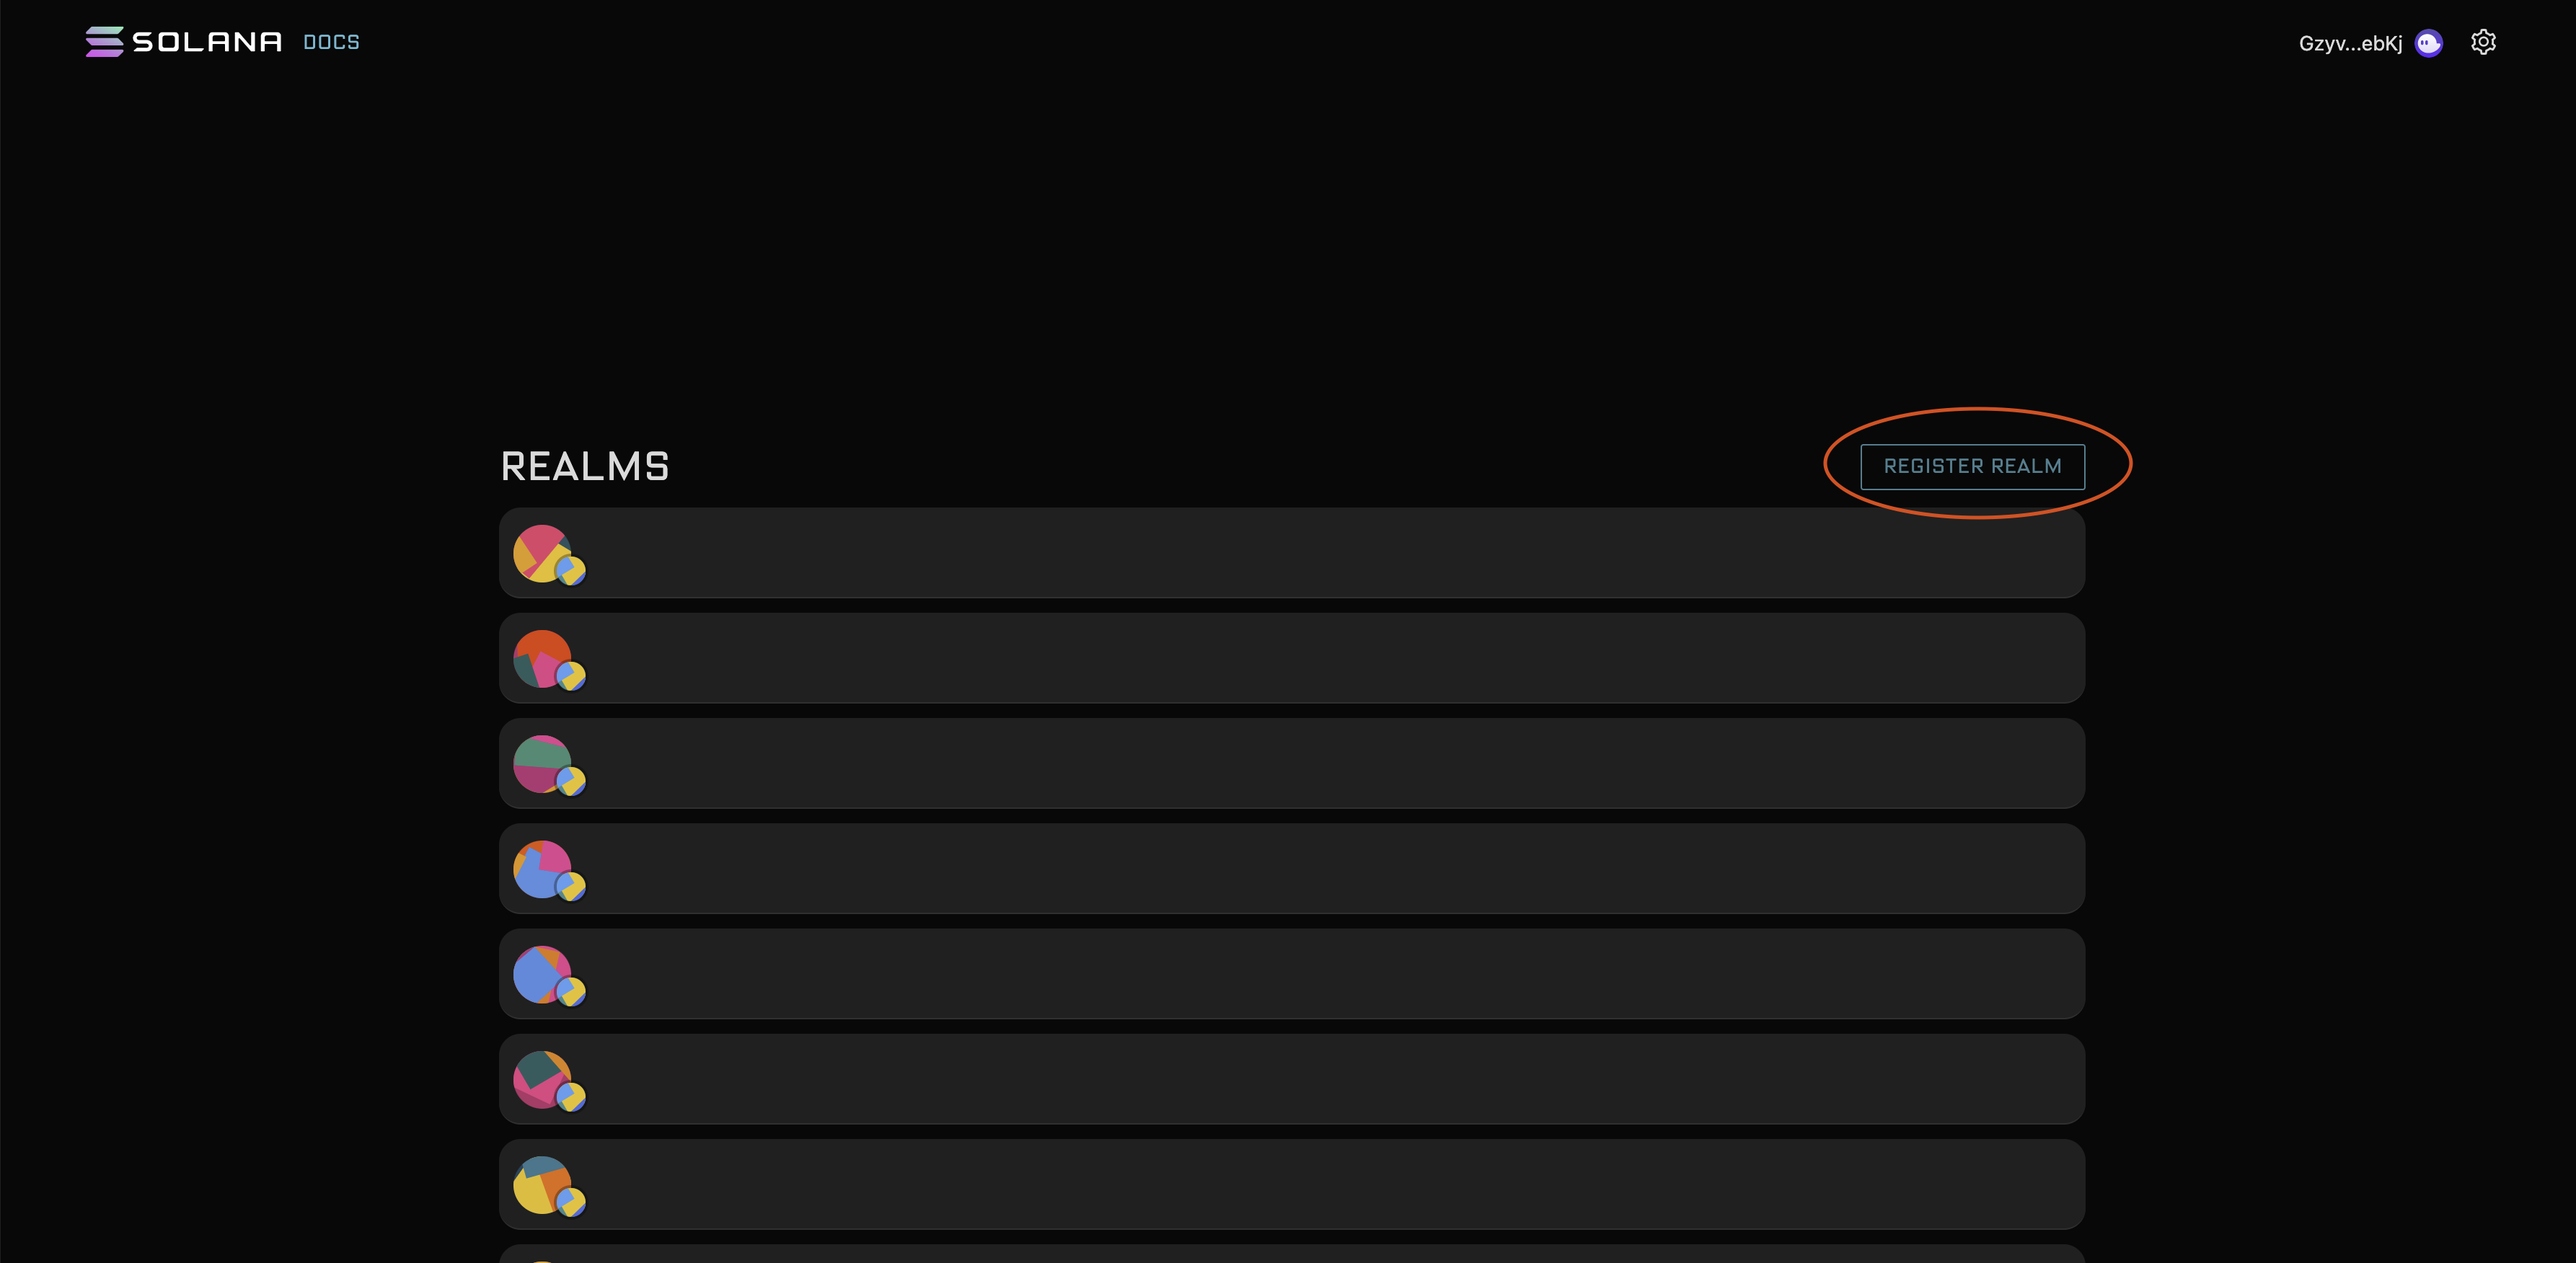
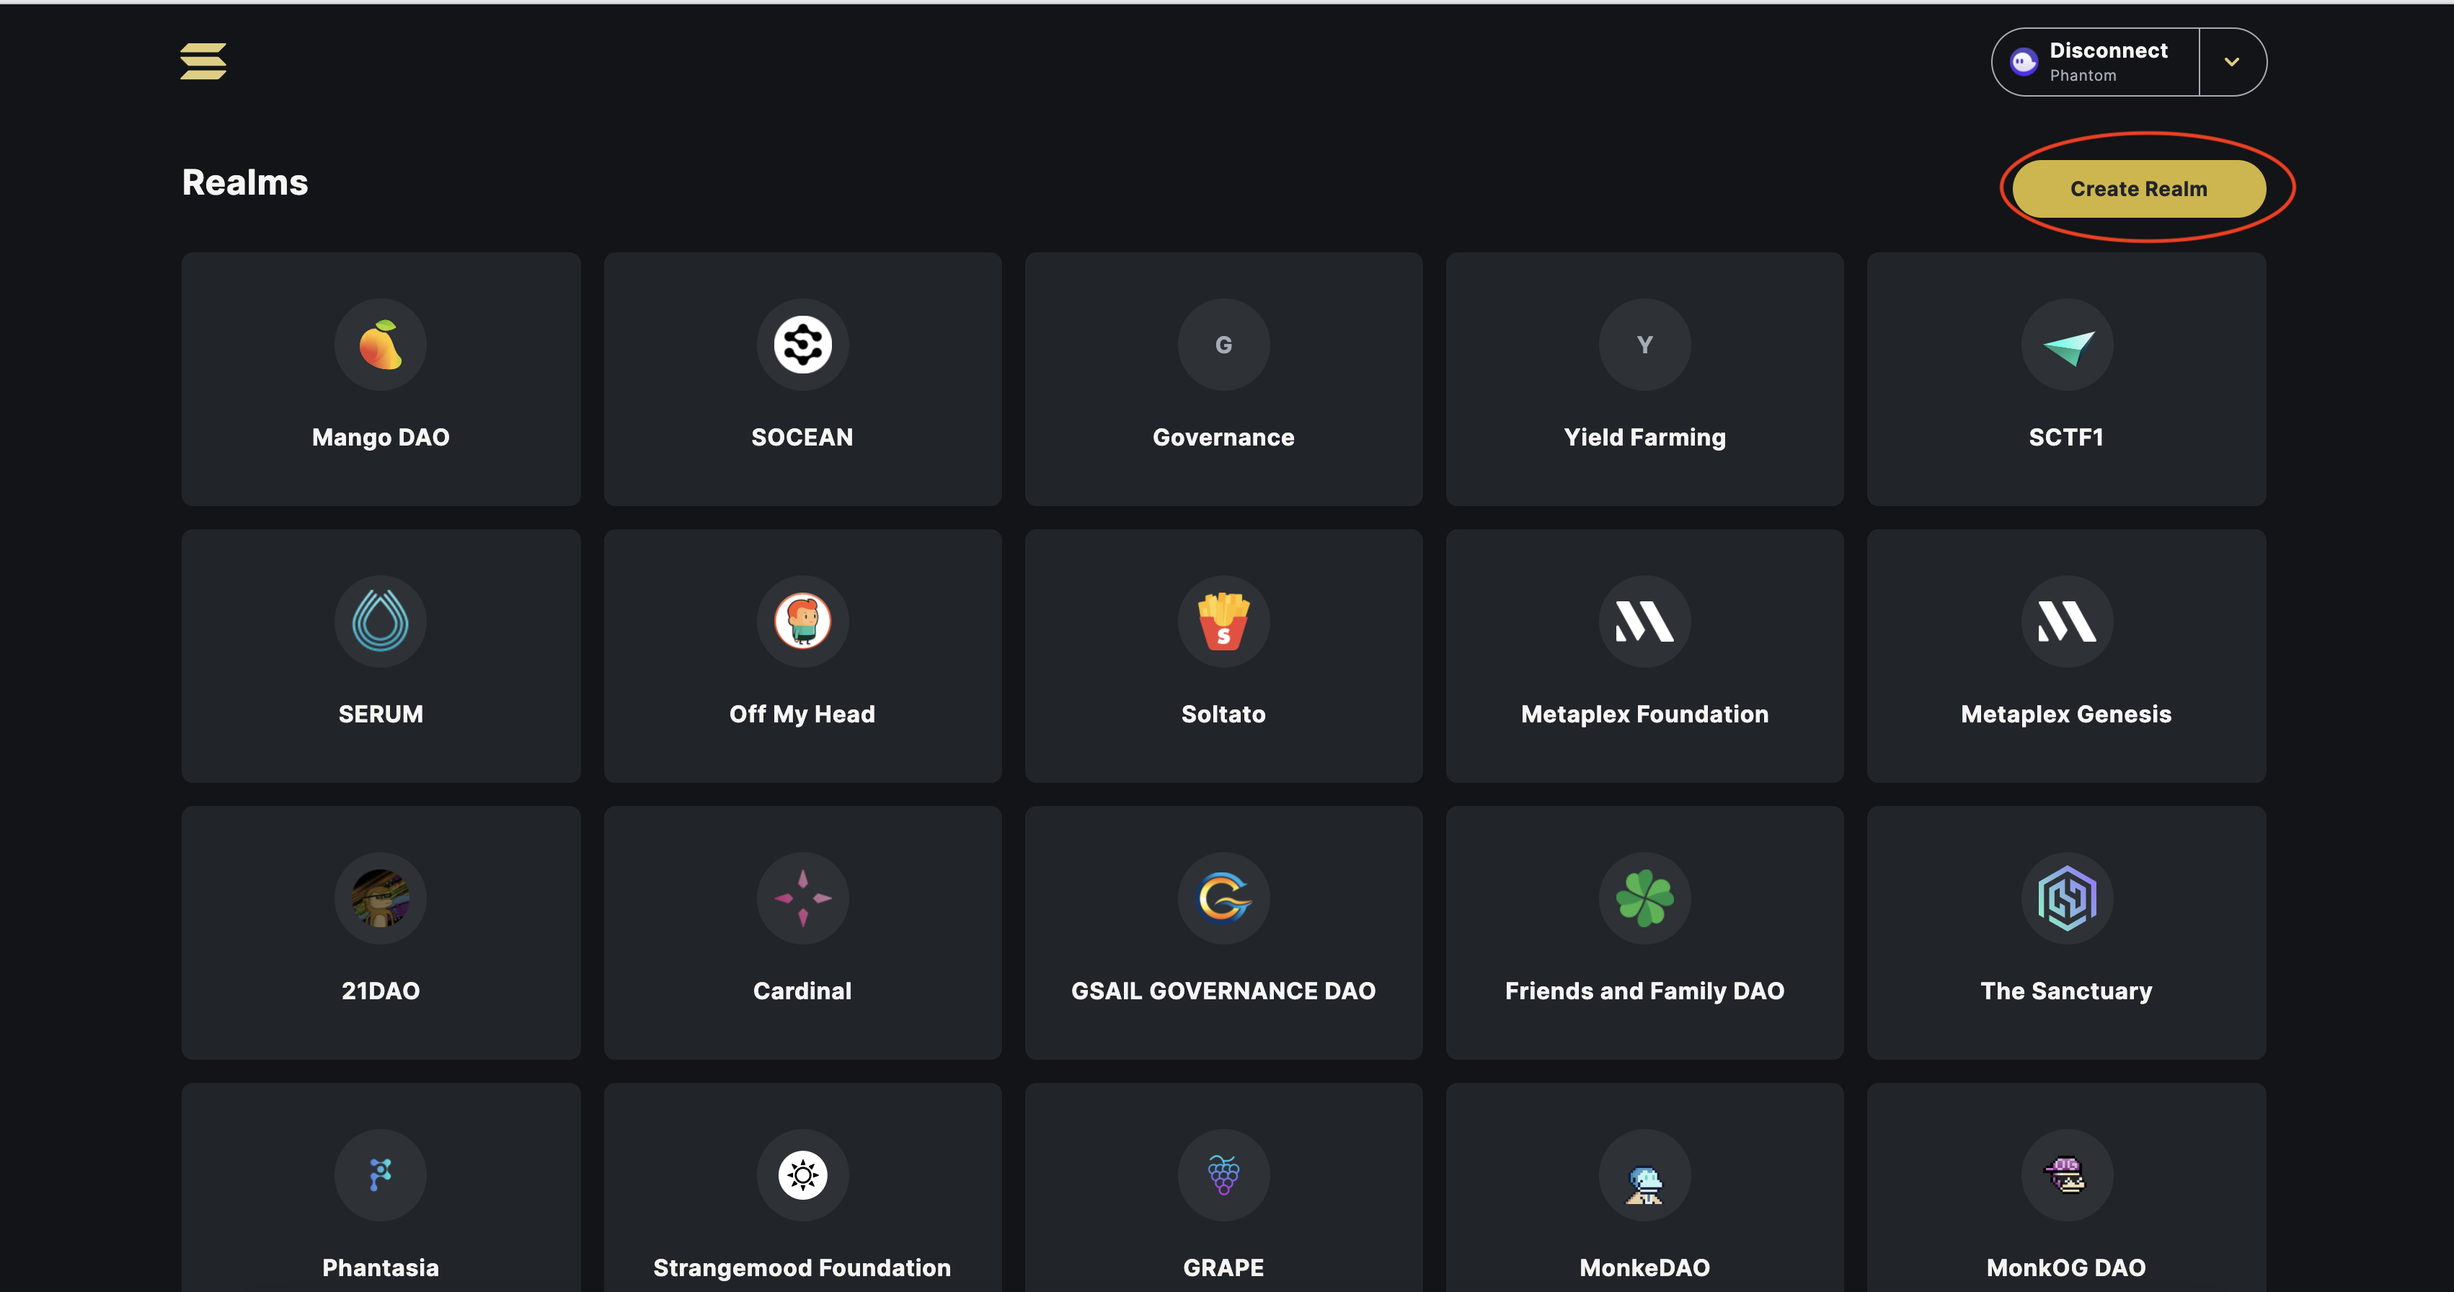
Upgrade governance docs, fix mainnet deploys

diff --git a/packages/cli/src/bootstrap.ts b/packages/cli/src/bootstrap.ts
@@ -1,9 +1,85 @@
 import * as anchor from "@project-serum/anchor";
 import { Keypair, PublicKey } from "@solana/web3.js";
-import { ExponentialCurveConfig, SplTokenBonding } from "@strata-foundation/spl-token-bonding";
+import { ExponentialCurveConfig, SplTokenBonding, TimeCurve, TimeCurveConfig } from "@strata-foundation/spl-token-bonding";
 import { SplTokenCollective } from "@strata-foundation/spl-token-collective";
 import { getMetadata } from "@strata-foundation/spl-utils";
 import fs from "fs";
+
+function timeIncrease(curve: TimeCurveConfig): TimeCurveConfig {
+  return curve
+    // Causes a 1.96078% bump
+    .addCurve(4 * 60 * 60, // 4 hours after launch
+      new ExponentialCurveConfig({
+        c: 1,
+        b: 0,
+        pow: 1,
+        frac: 50
+      })
+    )
+    // 1.88537% bump
+    .addCurve(8 * 60 * 60, // 8 hours after launch
+      new ExponentialCurveConfig({
+        c: 1,
+        b: 0,
+        pow: 1,
+        frac: 25
+      })
+    )
+    // 2.40385% bump
+    .addCurve(12 * 60 * 60, // 12 hours after launch
+      new ExponentialCurveConfig({
+        c: 1,
+        b: 0,
+        pow: 1,
+        frac: 15
+      })
+    )
+    // 2.84091% bump
+    .addCurve(16 * 60 * 60, // 16 hours after launch
+      new ExponentialCurveConfig({
+        c: 1,
+        b: 0,
+        pow: 1,
+        frac: 10
+      })
+    )
+    // 3.40909% bump
+    .addCurve(20 * 60 * 60, // 20 hours after launch
+      new ExponentialCurveConfig({
+        c: 1,
+        b: 0,
+        pow: 1,
+        frac: 7
+      })
+    )
+    // 4.16667% bump
+    .addCurve(24 * 60 * 60, // 24 hours after launch
+      new ExponentialCurveConfig({
+        c: 1,
+        b: 0,
+        pow: 1,
+        frac: 5
+      })
+    )
+    // 8.33333% bump
+    .addCurve(28 * 60 * 60, // 28 hours after launch
+      new ExponentialCurveConfig({
+        c: 1,
+        b: 0,
+        pow: 1,
+        frac: 3
+      })
+    )
+    // 8.33333% bump
+    .addCurve(32 * 60 * 60, // 32 hours after launch
+      new ExponentialCurveConfig({
+        c: 1,
+        b: 0,
+        pow: 1,
+        frac: 2
+      })
+    )
+}
 
 async function run() {
   console.log(process.env.ANCHOR_PROVIDER_URL)
@@ -14,32 +90,34 @@ async function run() {
   const tokenCollectiveSdk = await SplTokenCollective.init(provider);
   const openMintKeypair = Keypair.fromSecretKey(new Uint8Array(JSON.parse(fs.readFileSync(process.env.OPEN_MINT_PATH!).toString())));
   const wrappedSolKeypair = Keypair.fromSecretKey(new Uint8Array(JSON.parse(fs.readFileSync(process.env.WRAPPED_SOL_MINT_PATH!).toString())));
-  
+
   await tokenBondingSdk.initializeSolStorage({
     mintKeypair: wrappedSolKeypair
   });
   const curve = await tokenBondingSdk.initializeCurve({
-    config: new ExponentialCurveConfig({
-      c: 0.001,
-      b: 0,
-      pow: 1,
-      frac: 2
-    })
+    config: timeIncrease(new TimeCurveConfig()
+      .addCurve(0, new ExponentialCurveConfig({
+        c: 0,
+        b: 0.005, // 0.005 SOL per OPEN token starting
+        pow: 0,
+        frac: 2
+      })))
   });
   const socialCurve = await tokenBondingSdk.initializeCurve({
-    config: new ExponentialCurveConfig({
-      c: 0.0001,
-      b: 0,
-      pow: 1,
+    config: timeIncrease(new TimeCurveConfig()
+    .addCurve(0, new ExponentialCurveConfig({
+      c: 0,
+      b: 1, // 1 OPEN per social token starting
+      pow: 0,
       frac: 2
-    })
+    })))
   });
 
   const { collective, tokenBonding } = await tokenCollectiveSdk.createCollective({
     metadata: {
-      name: "Open Collective",
-      symbol: "OPEN",
-      uri: "https://strata-token-metadata.s3.us-east-2.amazonaws.com/open.json"
+      name: "Test Collective",
+      symbol: "TEST",
+      uri: "https://strata-token-metadata.s3.us-east-2.amazonaws.com/test.json"
     },
     bonding: {
       targetMintKeypair: openMintKeypair,

diff --git a/packages/spl-token-bonding/src/index.ts b/packages/spl-token-bonding/src/index.ts
@@ -478,6 +478,7 @@ export class SplTokenBonding extends AnchorSdk<SplTokenBondingIDL> {
       };
     }
 
+    console.log("Sol storage does not exist, creating...");
     const [state, bumpSeed] = await PublicKey.findProgramAddress(
       [Buffer.from("state", "utf-8")],
       this.programId

diff --git a/packages/docs/blog/2021-12-21-governance/index.md b/packages/docs/blog/2021-12-21-governance/index.md
@@ -11,7 +11,7 @@ authors: [noah]
 
 Have you been deploying your programs with `solana program deploy` with deploy keys on your local file system? While it works for prototyping, it's not great for a production program on mainnet that's holding real money.
 
-Local deploy keys are a security risk. If your computer is compromised, a hacker could take the deploy keys and do whatever they want with your program; including siphon all funds stored in or owned by the program.
+Local file system deploy keys are a security risk. If your computer is compromised, a hacker could take the deploy keys and do whatever they want with your program; including siphon all funds stored in or owned by the program.
 
 Multisigs are great for simplicity, but with governance you can transfer voting shares around. You can also change the voting settings as the project evolves. It's also got a nifty UI!
 
@@ -22,7 +22,11 @@ In addition to the security risks of deploying locally, there's also several ris
   * Forgetting to publish a verified build
   * Inconsistency with your git repository and what's deployed, making debugging difficult.
 
-By the end of this guide, we'll set up automation such that when you push release tags to `master`, you'll get a Governance proposal to deploy the contract. All you need to do is vote yes on the proposal, then execute the transaction. `push`, then go to a UI and deploy. For devnet, you'll get a new proposal every time the rust code changes on `master`
+Let's instead set up automation so we get something like this:
+
+![Governance on Mainnet](./end-result.png)
+
+By the end of this guide, we'll set up automation such that when you issue a release on github, you'll get a Governance proposal to deploy the contract. All you need to do is vote yes on the proposal, then execute the transaction. For devnet, you'll get a new proposal every time the rust code changes on `master`.
 
 :::note
 Do this in devnet before you try it on mainnet
@@ -160,45 +164,31 @@ This command cannot be undone without the new upgrade authority signing off. Mak
 solana program set-upgrade-authority -u devnet <PROGRAM_ADDRESS> --new-upgrade-authority <YOUR_WALLET_ADDRESS>
 ```
 
-Now we will need to create a realm. Navigate to: https://solana-labs.github.io/oyster-gov/#/?cluster=devnet
+Now we will need to create a realm. Navigate to: https://realms.today/realms?cluster=devnet
 
-Once you connect your wallet, you should be able to click Register Realm:
+Once you connect your wallet, you should be able to click Create Realm:
 
 ![Add Realm](./create-realm.png)
+
+You'll want to choose the second option, as bespoke realm:
+
+![Bespoke Realm](./bespoke.png)
 
 Fill out this form with your mint from earlier as the community mint id:
 
 ![Realm Form](./realm-form.png)
 
+You should be taken to a new page. This is your realm page. Bookmark this.
+
 Deposit your governance tokens using the deposit button
 
-Click the dots, then create new governance
+Now, we're going to add our program. Click the plus button next to assets to add a program asset:
 
-You should be on a new page. This is your **realm page**. Bookmark this.
+![Add Asset](./add-asset.png)
 
-![Create New Governance](./create-new.png)
+Fill out your program information. You can also fill out voting threshold information:
 
-Select Program, and fill out your program information. You can also fill out voting threshold information:
-
-![Create New Governance Form](./create-new-form.png)
-
-After you create your governance, you will be taken to a page at some url like this one:
-
-https://solana-labs.github.io/oyster-gov/#/governance/GOVERNANCE-ID?programId=GovER5Lthms3bLBqWub97yVrMmEogzX7xNjdXpPPCVZw
-
-**Note the address after /governance**. Copy that to your clipboard, you'll need it in the next step.
-
-After you create this governance, you should be able to navigate back to the new UI, I.e. https://realms.today/dao/YOUR-REALM-ID?cluster=devnet.
-
-You can get YOUR-REALM-ID by looking at the url of the realm in the old UI. I.e:
-
-https://solana-labs.github.io/oyster-gov/#/realm/C4a4XC2MPfXGfYdH7DMrUZ7hymfi6DVLtULtmnwTD5rh?programId=GovER5Lthms3bLBqWub97yVrMmEogzX7xNjdXpPPCVZw
-
-has a realm id of C4a4XC2MPfXGfYdH7DMrUZ7hymfi6DVLtULtmnwTD5rh.
-
-This is your **realm page** in the new UI. Bookmark this.
-
-We will use the new UI for the rest of this tutorial
+![Create New Program Governance](./create-program.png)
 
 ## Deploy Your First Update
 
@@ -208,17 +198,22 @@ Deploying with governance works in two steps. First, we'll write a buffer to Sol
 solana program write-buffer /path/to/your/deploy/contract.so -u devnet
 ```
 
-This write buffer will be owned by you, so let's transfer it to your governance. Remember that address we copied to clipboard?
+This write buffer will be owned by you, so let's transfer it to your governance. To get the governance id, click your program under "Assets" then click Upgrade:
+
+![Upgrade](upgrade.png)
+
+You should see Upgrade Authority. Copy that to clipboard
+
+![Gov ID](./governance-id.png)
+
 
 ```
 solana program set-buffer-authority <YOUR_BUFFER_FROM_ABOVE> --new-buffer-authority <GOVERNANCE_ID_FROM_CLIPBOARD> -u devnet
 ```
 
-Now that we've deployed our buffer, let's propose an upgrade to our contract:
+Now that we've deployed our buffer, let's propose an upgrade to our contract. Input your buffer from above into the upgrade form
 
-Click the "New" Button on the realm page, then fill it out with your buffer:
-
-![Create a Proposal](./input-buffer-address.png)
+![Upgrade Form](./upgrade-form.png)
 
 Once you've created your proposal, you will be able to vote on it like so:
 
@@ -241,6 +236,10 @@ First, let's transfer the IDL to governance:
 :::caution
 This command cannot be undone without the new authority signing off. Make absolute sure the governance address is correct here
 :::
+
+![Gov ID](./governance-id.png)
+
+Make sure you're using this address, and double check it in the explorer to make sure it's owned by the governance program.
 
 ```
 anchor idl set-authority --provider.cluster devnet --program-id <PROGRAM_ADDRESS> --new-authority <GOVERNANCE_ID>
@@ -311,16 +310,16 @@ Now, we need to deposit those voting tokens. You can add the deploy to your wall
 You'll want to setup github actions for your repo. Strata has two main workflows relating to this:
 
   * Devnet Proposal - When a commit is pushed to master, if the rust contracts have changed, create a proposal to devnet governance to release the new version
-  * Mainnet Proposal - When release tags (ex v1.0.0) are pushed to master, if the rust contracts have changed, create a proposal to mainnet governance to release the new version
+  * Mainnet Proposal - When a github release happens, if the rust contracts have changed, create a proposal to mainnet governance to release the new version
 
 To get these in your repo, you'll want to clone https://github.com/StrataFoundation/strata
 
 You will need to copy and edit the variables in:
 
-  * `.github/workflows/devnet-proposal.yaml` - When a commit is pushed to master, if the rust contracts have changed, create a proposal to devnet governance to release the new version. Make sure to set `governance` to the dev governance we created here
-  * `.github/workflows/mainnet-proposal.yaml` - When release tags (ex v1.0.0) are pushed to master, if the rust contracts have changed, create a proposal to mainnet governance to release the new version. Make sure to set `governance` to a production governance, you will need to follow the above steps on mainnet _after_ you verify it works on devnet.
+  * `.github/workflows/devnet-proposal.yaml` - When a commit is pushed to master, if the rust contracts have changed, create a proposal to devnet governance to release the new version. Make sure to set `governance` to the dev governance address we got from the Upgrade Form.
+  * `.github/workflows/mainnet-proposal.yaml` - When a github release happens, if the rust contracts have changed, create a proposal to mainnet governance to release the new version. Make sure to set `governance` to a production governance, you will need to follow the above steps on mainnet _after_ you verify it works on devnet.
 
-In particular, make sure there's an entry for each program, and that you set `program, program-id, network, keypair, governance, name, description`. If signatory is set, that account must "sign off" on the proposal to get it out of draft stage.
+In particular, make sure there's an entry for each program, and that you set `program, program-id, network, keypair, governance, name, description`. If `signatory` is set, that account must "sign off" on the proposal to get it out of draft stage.
 
 These workflows rely on some actions that you will probably not need to edit, but will need to copy:
 
@@ -347,6 +346,8 @@ These workflows rely on some actions that you will probably not need to edit, bu
   ![Vote in Progress](./vote-in-progress.png)
 
 Congrats! You're now running program governance on auto-pilot!
+
+To test mainnet proposals, click the releases button on the side of your github repo. Draft a new release and publish it. Then go to the actions tab and make sure it runs successfuly. 
 
 ## Stuck?
 
